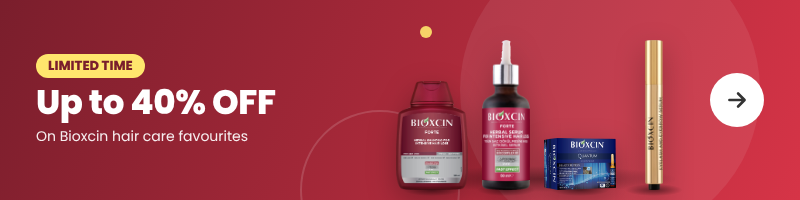
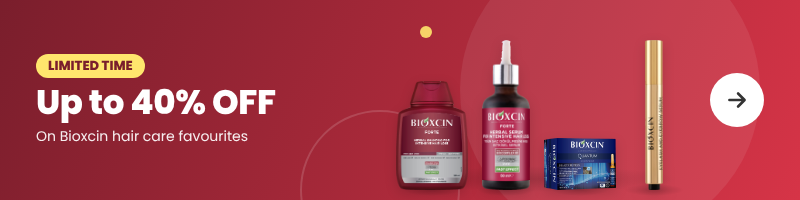
Offer 2: lighter burgundy, group shampoos, softer shadows
Claude-Session: https://claude.ai/code/session_01MejyVmSq2aYVYmituLqweB

Changed region(s): [[0.5625, 0.84, 0.75, 0.99], [0.75, 0.87, 0.8438, 0.99], [0.5, 0.93, 0.5625, 0.99]]

diff --git a/banners/offers.js b/banners/offers.js
@@ -38,27 +38,28 @@ const OFFERS = [
       { name: { en: "Quantum Bio-Activ Serum", ar: "سيروم كوانتم بيو أكتيف" }, image: "products/bioxcin-quantum-serum.png", price: "", oldPrice: "" },
       { name: { en: "Eyelash & Eyebrow Serum", ar: "سيروم الرموش والحواجب" }, image: "products/bioxcin-eyelash-serum.png", price: "", oldPrice: "" },
     ],
- },
+  },
   {
     id: "offer-2",
-    theme: { from: "#3d0a17", to: "#800020", accent: "#e9c46a", text: "#ffffff" },
+    theme: { from: "#7a2034", to: "#b23a55", accent: "#f2cf7a", text: "#ffffff" },
     badge: { en: "LIMITED TIME", ar: "لفترة محدودة" },
     headline: { en: "Buy 2 Get 2", ar: "اشترِ 2 واحصل على 2" },
     sub: { en: "On Bioxcin hair care favourites", ar: "على منتجات بيوكسين للعناية بالشعر" },
     cta: { en: "Shop Now", ar: "تسوّق الآن" },
     code: { en: "", ar: "" },
-    // Each row of 4 runs small → large → large → small; "scale" = height relative to the tallest.
+    // Grouped: serum + the three 300ml shampoos (white, blue, red), then the two anti-dandruff
+    // shampoos side by side, then eyelash serum + Quantum box. "scale" = height vs the tallest.
     products: [
       { name: { en: "Forte Herbal Serum", ar: "سيروم فورت العشبي" }, image: "products/bioxcin-forte-serum.png", scale: 0.72, price: "", oldPrice: "" },
-      { name: { en: "Black Garlic Shampoo", ar: "شامبو الثوم الأسود" }, image: "products/bioxcin-black-garlic-shampoo.png", scale: 0.84, price: "", oldPrice: "" },
-      { name: { en: "Anti-Dandruff Thermal Shampoo", ar: "شامبو حراري ضد القشرة" }, image: "products/bioxcin-anti-dandruff-shampoo.png", scale: 1, price: "", oldPrice: "" },
-      { name: { en: "Eyelash & Eyebrow Serum", ar: "سيروم الرموش والحواجب" }, image: "products/bioxcin-eyelash-serum.png", scale: 0.78, price: "", oldPrice: "" },
-      { name: { en: "Anti-Dandruff DS Shampoo", ar: "شامبو DS المكثف ضد القشرة" }, image: "products/bioxcin-anti-dandruff-ds-shampoo.png", scale: 0.8, price: "", oldPrice: "" },
+      { name: { en: "Black Garlic Shampoo", ar: "شامبو الثوم الأسود" }, image: "products/bioxcin-black-garlic-shampoo.png", scale: 0.86, price: "", oldPrice: "" },
       { name: { en: "Quantum Bio-Activ Shampoo", ar: "شامبو كوانتم بيو أكتيف" }, image: "products/bioxcin-quantum-shampoo.png", scale: 0.86, price: "", oldPrice: "" },
       { name: { en: "Forte Herbal Shampoo", ar: "شامبو فورت العشبي" }, image: "products/bioxcin-forte-shampoo.png", scale: 0.86, price: "", oldPrice: "" },
+      { name: { en: "Anti-Dandruff Thermal Shampoo", ar: "شامبو حراري ضد القشرة" }, image: "products/bioxcin-anti-dandruff-shampoo.png", scale: 1, price: "", oldPrice: "" },
+      { name: { en: "Anti-Dandruff DS Shampoo", ar: "شامبو DS المكثف ضد القشرة" }, image: "products/bioxcin-anti-dandruff-ds-shampoo.png", scale: 0.8, price: "", oldPrice: "" },
+      { name: { en: "Eyelash & Eyebrow Serum", ar: "سيروم الرموش والحواجب" }, image: "products/bioxcin-eyelash-serum.png", scale: 0.78, price: "", oldPrice: "" },
       { name: { en: "Quantum Bio-Activ Serum", ar: "سيروم كوانتم بيو أكتيف" }, image: "products/bioxcin-quantum-serum.png", scale: 0.62, price: "", oldPrice: "" },
     ],
-},
+  },
   {
     id: "offer-3",
     theme: { from: "#0f5132", to: "#198754", accent: "#ffc107", text: "#ffffff" },

diff --git a/banners/banners.css b/banners/banners.css
@@ -53,7 +53,7 @@ img.logo { object-fit: contain; }
 .product { display: flex; flex-direction: column; align-items: center; text-align: center; }
 .product-media {
   display: flex; align-items: flex-end; justify-content: center;
-  filter: drop-shadow(0 10px 14px rgba(0,0,0,.28));
+  filter: drop-shadow(0 4px 6px rgba(0,0,0,.14));
 }
 .product-media img, .product-media svg { height: 100%; width: 100%; object-fit: contain; }
 .product-name { font-weight: 600; line-height: 1.2; }
@@ -222,12 +222,12 @@ img.logo { object-fit: contain; }
 .product-media img { height: calc(var(--s, 1) * 100%); object-position: bottom; }
 .desktop-hero .products::after, .mobile-hero .products::after, .mobile-slim .products::after {
   content: ""; position: absolute; z-index: -1; left: 4%; right: 4%; bottom: 8px; height: 26px;
-  background: radial-gradient(closest-side, rgba(0,0,0,.35), transparent); pointer-events: none;
+  background: radial-gradient(closest-side, rgba(0,0,0,.14), transparent); pointer-events: none;
 }
 .product-media { position: relative; }
 .product-media::after {
   content: ""; position: absolute; z-index: -1; left: 10%; right: 10%; bottom: -6px; height: 12px;
-  background: radial-gradient(closest-side, rgba(0,0,0,.45), transparent);
+  background: radial-gradient(closest-side, rgba(0,0,0,.18), transparent);
 }
 /* names reserve two lines so every product in a row stands on the same baseline */
 .mobile-vertical-hero .product { align-self: stretch; justify-content: flex-end; }
